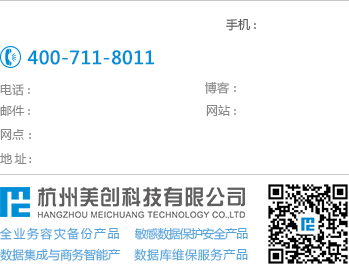
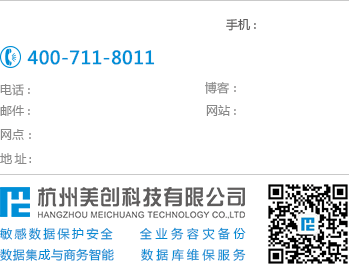
文件更名，背景图片更换

diff --git a/ecard/index.html b/ecard/index.html
@@ -5,13 +5,13 @@
     <title>邮件签名档 生成工具</title>
     <meta name="viewport" content="width=device-width, initial-scale=1.0">
     <!-- Loading Bootstrap -->
-    <link href="css/vendor/bootstrap/css/bootstrap.min.css" rel="stylesheet">
+    <link href="css/lib/bootstrap/css/bootstrap.min.css" rel="stylesheet">
     <!-- Loading Flat UI -->
     <link rel="shortcut icon" href="img/favicon.ico">
     <!-- HTML5 shim, for IE6-8 support of HTML5 elements. All other JS at the end of file. -->
     <!--[if lt IE 9]>
-      <script src="js/vendor/html5shiv.js"></script>
-      <script src="js/vendor/respond.min.js"></script>
+      <script src="js/lib/html5shiv.js"></script>
+      <script src="js/lib/respond.min.js"></script>
     <![endif]-->
 	<style>
 		.title{ padding:10px; font-weight:bold;}
@@ -99,7 +99,7 @@
 				<p class="title bg-primary">预览区域</p>
 				<div class="preview row">
 					<div class="col-lg-9 col-lg-offset-3">
-						<img id="J_imgBg" src="img/bg.png" class="hide"/>
+						<img id="J_imgBg" src="img/bg.png?20160505" class="hide"/>
 						<canvas id="J_canvas" class="canvas" width="349" height="272">请用谷歌，火狐浏览器访问本页面</canvas>
 					</div>
 				</div>
@@ -109,7 +109,7 @@
     </div>	
     <!-- /.container -->
     <!-- jQuery (necessary for Flat UI's JavaScript plugins) -->
-    <script type="text/javascript" src="js/vendor/jquery.min.js"></script>
+    <script type="text/javascript" src="js/lib/jquery.min.js"></script>
     <script type="text/javascript" src="js/ecard.js"></script>
   </body>
 </html>
